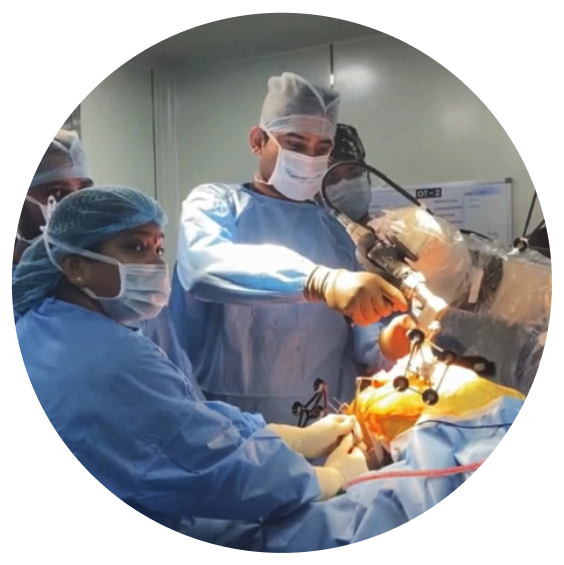
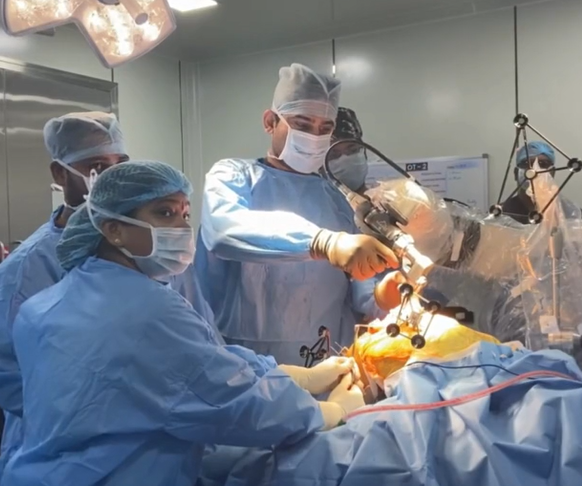
UI Canges from Client

diff --git a/Frontend/src/components/TechnologySection.jsx b/Frontend/src/components/TechnologySection.jsx
@@ -96,24 +96,24 @@ const TechnologySection = () => {
             <div className="mycustom-marque theme-blue-bg">
                 <div className="scrolling-wrap">
                     <div className="comm">
-                        <div className="cmn-textslide stroke-text"><img src={'https://res.cloudinary.com/sdk28cdn/image/upload/v1767202076/agastya/has.png'} alt="img" />Technological Excellence</div>
-                        <div className="cmn-textslide stroke-text"><img src={'https://res.cloudinary.com/sdk28cdn/image/upload/v1767202076/agastya/has.png'} alt="img" />Precision Driven Tools</div>
-                        <div className="cmn-textslide stroke-text"><img src={'https://res.cloudinary.com/sdk28cdn/image/upload/v1767202076/agastya/has.png'} alt="img" />State-of-the-Art Equipment&nbsp;&nbsp;</div>
+                        <div className="cmn-textslide stroke-text"><img src={'https://res.cloudinary.com/sdk28cdn/image/upload/v1788281285/agastya/bullet.png'} alt="img" />Technological Excellence</div>
+                        <div className="cmn-textslide stroke-text"><img src={'https://res.cloudinary.com/sdk28cdn/image/upload/v1788281285/agastya/bullet.png'} alt="img" />Precision Driven Tools</div>
+                        <div className="cmn-textslide stroke-text"><img src={'https://res.cloudinary.com/sdk28cdn/image/upload/v1788281285/agastya/bullet.png'} alt="img" />State-of-the-Art Equipment&nbsp;&nbsp;</div>
                     </div>
                     <div className="comm">
-                        <div className="cmn-textslide stroke-text"><img src={'https://res.cloudinary.com/sdk28cdn/image/upload/v1767202076/agastya/has.png'} alt="img" />Technological Excellence</div>
-                        <div className="cmn-textslide stroke-text"><img src={'https://res.cloudinary.com/sdk28cdn/image/upload/v1767202076/agastya/has.png'} alt="img" />Precision Driven Tools</div>
-                        <div className="cmn-textslide stroke-text"><img src={'https://res.cloudinary.com/sdk28cdn/image/upload/v1767202076/agastya/has.png'} alt="img" />State-of-the-Art Equipment &nbsp;&nbsp;</div>
+                        <div className="cmn-textslide stroke-text"><img src={'https://res.cloudinary.com/sdk28cdn/image/upload/v1788281285/agastya/bullet.png'} alt="img" />Technological Excellence</div>
+                        <div className="cmn-textslide stroke-text"><img src={'https://res.cloudinary.com/sdk28cdn/image/upload/v1788281285/agastya/bullet.png'} alt="img" />Precision Driven Tools</div>
+                        <div className="cmn-textslide stroke-text"><img src={'https://res.cloudinary.com/sdk28cdn/image/upload/v1788281285/agastya/bullet.png'} alt="img" />State-of-the-Art Equipment &nbsp;&nbsp;</div>
                     </div>
                    <div className="comm">
-                        <div className="cmn-textslide stroke-text"><img src={'https://res.cloudinary.com/sdk28cdn/image/upload/v1767202076/agastya/has.png'} alt="img" />Technological Excellence</div>
-                        <div className="cmn-textslide stroke-text"><img src={'https://res.cloudinary.com/sdk28cdn/image/upload/v1767202076/agastya/has.png'} alt="img" />Precision Driven Tools</div>
-                        <div className="cmn-textslide stroke-text"><img src={'https://res.cloudinary.com/sdk28cdn/image/upload/v1767202076/agastya/has.png'} alt="img" />State-of-the-Art Equipment&nbsp;&nbsp;</div>
+                        <div className="cmn-textslide stroke-text"><img src={'https://res.cloudinary.com/sdk28cdn/image/upload/v1788281285/agastya/bullet.png'} alt="img" />Technological Excellence</div>
+                        <div className="cmn-textslide stroke-text"><img src={'https://res.cloudinary.com/sdk28cdn/image/upload/v1788281285/agastya/bullet.png'} alt="img" />Precision Driven Tools</div>
+                        <div className="cmn-textslide stroke-text"><img src={'https://res.cloudinary.com/sdk28cdn/image/upload/v1788281285/agastya/bullet.png'} alt="img" />State-of-the-Art Equipment&nbsp;&nbsp;</div>
                     </div>
                      <div className="comm">
-                        <div className="cmn-textslide stroke-text"><img src={'https://res.cloudinary.com/sdk28cdn/image/upload/v1767202076/agastya/has.png'} alt="img" />Technological Excellence</div>
-                        <div className="cmn-textslide stroke-text"><img src={'https://res.cloudinary.com/sdk28cdn/image/upload/v1767202076/agastya/has.png'} alt="img" />Precision Driven Tools</div>
-                        <div className="cmn-textslide stroke-text"><img src={'https://res.cloudinary.com/sdk28cdn/image/upload/v1767202076/agastya/has.png'} alt="img" />State-of-the-Art Equipment&nbsp;&nbsp;</div>
+                        <div className="cmn-textslide stroke-text"><img src={'https://res.cloudinary.com/sdk28cdn/image/upload/v1788281285/agastya/bullet.png'} alt="img" />Technological Excellence</div>
+                        <div className="cmn-textslide stroke-text"><img src={'https://res.cloudinary.com/sdk28cdn/image/upload/v1788281285/agastya/bullet.png'} alt="img" />Precision Driven Tools</div>
+                        <div className="cmn-textslide stroke-text"><img src={'https://res.cloudinary.com/sdk28cdn/image/upload/v1788281285/agastya/bullet.png'} alt="img" />State-of-the-Art Equipment&nbsp;&nbsp;</div>
                     </div>
                     
                 </div>

diff --git a/Frontend/src/App.css b/Frontend/src/App.css
@@ -747,6 +747,14 @@ select.form-select {
 }
 
 
+.specialty-card-home .spec-desc-card {
+  min-height:100px;
+}
+
+.specialty-card-home .spec-title {
+  min-height:56px;
+}
+
 .specialty-card-home-active {
   background-color: #1a365a;
 }
@@ -832,7 +840,8 @@ select.form-select {
 
 .specialtypage-btn a {
   font-size: 14px !important;
-  color: #022b50;
+  color: #022b50 !important;
+  font-weight: bold;
   margin-bottom: 10px;
 }
 
@@ -1007,6 +1016,7 @@ select.form-select {
 .packagename {
   font-size: 20px;
   font-weight: 700;
+  min-height:50px;
   margin-bottom: 15px;
   color: #000;
 }
@@ -1054,9 +1064,9 @@ select.form-select {
 }
 
 .packagebook-btn:hover {
-  background-color: #5a3ef5;
+  background-color: #022b50;
   color: #fff;
-  border-color: #5a3ef5;
+  border-color: #022b50;
 }
 
 h1.main-title,
@@ -1097,7 +1107,7 @@ h1.main-title::after,
 .main-title::after,
 h1.main-title-center::after,
 .main-title-center::after {
-  content: "";
+  content: "—";
   position: absolute;
   bottom: -40px;
   left: 0;
@@ -1105,7 +1115,8 @@ h1.main-title-center::after,
   width: 39px;
   height: 26px;
   margin-bottom: 10px;
-  background: url("https://imagizer.imageshack.com/img924/3923/2yL1eB.png");
+  /* background: url("https://imagizer.imageshack.com/img924/3923/2yL1eB.png"); */
+  
   background-repeat: no-repeat;
   background-size: contain;
 }
@@ -1159,7 +1170,7 @@ h1.main-title-center::after,
 }
 
 .technology-card:hover {
-  box-shadow: 6px 6px 0px #4d39d2;
+  box-shadow: 6px 6px 0px #022b50;
   transition: all 0.4s ease-in-out;
 }
 
@@ -1181,9 +1192,9 @@ h1.main-title-center::after,
 }
 
 .scrolling-wrap .comm .cmn-textslide {
-  font-size: 60px;
-  font-weight: 800;
-  line-height: 80px;
+  font-size: 30px;
+  font-weight: 500;
+  line-height: 40px;
   text-transform: capitalize;
   color: var(--header);
   display: flex;
@@ -1778,7 +1789,7 @@ h1.main-title-center::after,
 
 .outstanding-care .accreditation {
   position: relative;
-  margin-top: 130px;
+  margin-top: 90px;
 }
 
 .outstanding-care .background {

diff --git a/Frontend/src/components/OutstandingCareSection.jsx b/Frontend/src/components/OutstandingCareSection.jsx
@@ -1,16 +1,21 @@
-// import aboutagstya from "../assets/images/about_agastya.png";
+
+// import aboutagstya from "../assets/images/about-agastya.png";
+
+import { OutstandingCareSectionImages } from "../assets/ImageConstants"
+
+
 const OutstandingCareSection = () => {
   return (
-    <section className="outstanding-care">      
+    <section className="outstanding-care">
 
       <div className="container">
         <div className="row">
           <div className="col-lg-6">
             <div className="left-section">
-              <img src="https://res.cloudinary.com/sdk28cdn/image/upload/v1767029723/about_agastya.png" alt="Outstanding Care"></img>
+              <img src={OutstandingCareSectionImages.aboutagstya} alt="Outstanding Care"></img>
               <div className="d-flex mt-5 mx-auto justify-center outstanding-btn-container">
                 <a href="#" className="video"><img height={24} src="https://res.cloudinary.com/sdk28cdn/image/upload/v1758302379/agastya/video-icon.svg"></img> Watch Video</a>
-                <a href="https://maps.app.goo.gl/SdLVBpmTThWkM9w89" target="_blank" className="locateus"><img height={24} src="https://res.cloudinary.com/sdk28cdn/image/upload/v1758302379/agastya/map-icon.svg"></img> Locate Us</a>
+    
               </div>
             </div>
           </div>
@@ -28,8 +33,8 @@ const OutstandingCareSection = () => {
               </ul>
             </div>
             <div className="accreditation">
-                <div className="background"></div>
-                <div className="accreds"><p className="paragraph-22 p-3 f-w-700">Accreditation <br/>& Recognition</p><img src="https://res.cloudinary.com/sdk28cdn/image/upload/v1756662699/agastya/accreditation-recognition.png"></img></div>
+              <div className="background"></div>
+              <div className="accreds"><p className="paragraph-22 p-3 f-w-700">Accreditation <br />& Recognition</p><img src={OutstandingCareSectionImages.accreditation}></img></div>
             </div>
           </div>
         </div>

diff --git a/Frontend/src/components/HealthPackagesSection.jsx b/Frontend/src/components/HealthPackagesSection.jsx
@@ -102,7 +102,7 @@ const HealthPackagesSection = () => {
       <section className="healthpackage-section">
         <div className="container-fluid m-0 ps-0">
           <div className="row align-items-center m-0">
-            <div className="col-lg-6 mb-4 mb-lg-0 px-0">
+            <div className="col-lg-5 mb-4 mb-lg-0 px-0">
               <div className="health-img justify-content-end">
                 <img
                   src="https://res.cloudinary.com/sdk28cdn/image/upload/v1756662700/agastya/agastya-health-packages.png"
@@ -112,7 +112,7 @@ const HealthPackagesSection = () => {
               </div>
             </div>
 
-            <div className="col-lg-6 p-0">
+            <div className="col-lg-7 p-0">
               <div className="package-bg-color">
                 <div class="row">
                   <div class="col-lg-12 text-start my-4">

diff --git a/Frontend/src/pages/About.jsx b/Frontend/src/pages/About.jsx
@@ -158,7 +158,7 @@ const About = () => {
           <div className="second-opinion-content">
             <h3 className="second-opinion-title">Looking for a Second Opinion?</h3>
             <h2 className="second-opinion-highlight">
-              Contact Us for a Free Second Opinion!
+              Contact Us for a Expert Second Opinion!
             </h2>
             <p className="mt-3">
               At [Hospital Name], we understand that making informed decisions
@@ -169,7 +169,7 @@ const About = () => {
               feel confident in your healthcare choices.
             </p>
             <a href="/free-second-opinion" className="second-opinion-btn mt-3">
-              <span>➔</span> Get Your Free Second Opinion
+              <span>➔</span> Get Your Expert Second Opinion
             </a>
           </div>
           <div>

diff --git a/Frontend/src/App.jsx b/Frontend/src/App.jsx
@@ -37,11 +37,11 @@ function App() {
         </a>
 
         <a className="sticky-btn opinion cursor-pointer" onClick={() => {
-          dispatch(setBreadcrumb(["Home", "Free Second Opinion"]));
+          dispatch(setBreadcrumb(["Home", "Expert Second Opinion"]));
           navigate("/free-second-opinion");
           window.scrollTo({ top: 0, behavior: "smooth" });
         }}>
-          <span>Free Second Opinion</span>
+          <span>Expert Second Opinion</span>
           <i className="bi bi-chat-dots"></i>
         </a>
         <a className="sticky-btn whatsapp cursor-pointer" href="https://wa.me/919459108108?text=Hello%20I%20would%20like%20to%20get%20more%20information%20about%20your%20hospital%20services.%20Please%20assist%20me." target="_blank">

diff --git a/Frontend/src/components/HeroSection.jsx b/Frontend/src/components/HeroSection.jsx
@@ -16,7 +16,7 @@ const quickLinks = [
     path: "/medical-reports",
   },
   {
-    label: "Get a Free Second Opinion",
+    label: "Get a Expert Second Opinion",
     path: "/free-second-opinion",
   },
 ];
@@ -140,7 +140,7 @@ const HeroSection = () => {
               </a>
               <a
                 onClick={() => {
-                  dispatch(setBreadcrumb(["Home", "Free Second Opinion"]));
+                  dispatch(setBreadcrumb(["Home", "Expert Second Opinion"]));
                   navigate("/free-second-opinion");
                   window.scrollTo({ top: 0, behavior: "smooth" });
                 }}

diff --git a/Frontend/src/components/SpecialtiesSection.jsx b/Frontend/src/components/SpecialtiesSection.jsx
@@ -90,11 +90,11 @@ const SpecialtiesSection = () => {
                     className=""
                   />
                 </div>
-                <h3 className="text-xl font-semibold mb-2">
+                <h3 className="spec-title text-xl font-semibold mb-2">
                   {specialty.specialityName}
                 </h3>
                 <p
-                  className={`text-sm ${
+                  className={`spec-desc-card text-sm ${
                     specialty.active ? "text-gray-600" : "text-gray-600"
                   }`}
                 >

diff --git a/Frontend/src/components/Header.jsx b/Frontend/src/components/Header.jsx
@@ -86,7 +86,7 @@ const Header = () => {
     { path: "/contact-us", label: "Contact Us" },
     { path: "/privacy-policy", label: "Privacy Policy" },
     { path: "/terms-and-conditions", label: "Terms & Conditions" },
-    { path: "/free-second-opinion", label: "Free Second Opinion" },
+    { path: "/free-second-opinion", label: "Expert Second Opinion" },
     { path: "/medical-reports", label: "Medical Reports" },
     { path: `/doctor/`, label: "Doctor Profile" },
     { path: "/leadership-team", label: "Leadership Team" },

diff --git a/Frontend/src/components/MobileNav.jsx b/Frontend/src/components/MobileNav.jsx
@@ -28,7 +28,7 @@ const MobileNav = () => {
       <div
         class="mobile-nav-item"
         onClick={() => {
-          dispatch(setBreadcrumb(["Home", "Free Second Opinion"]));
+          dispatch(setBreadcrumb(["Home", "Expert Second Opinion"]));
           navigate("/free-second-opinion");
           window.scrollTo({ top: 0, behavior: "smooth" });
         }}

diff --git a/Frontend/src/components/pages/BookAppointment.jsx b/Frontend/src/components/pages/BookAppointment.jsx
@@ -710,7 +710,7 @@ const BookAppointment = () => {
 
               <div className="sidebar-section">
                 <h5 className="title">
-                  Visit our hospital for a free second opinion
+                  Visit our hospital for a expert second opinion
                 </h5>
                 <ul className="sep">
                   <li>
